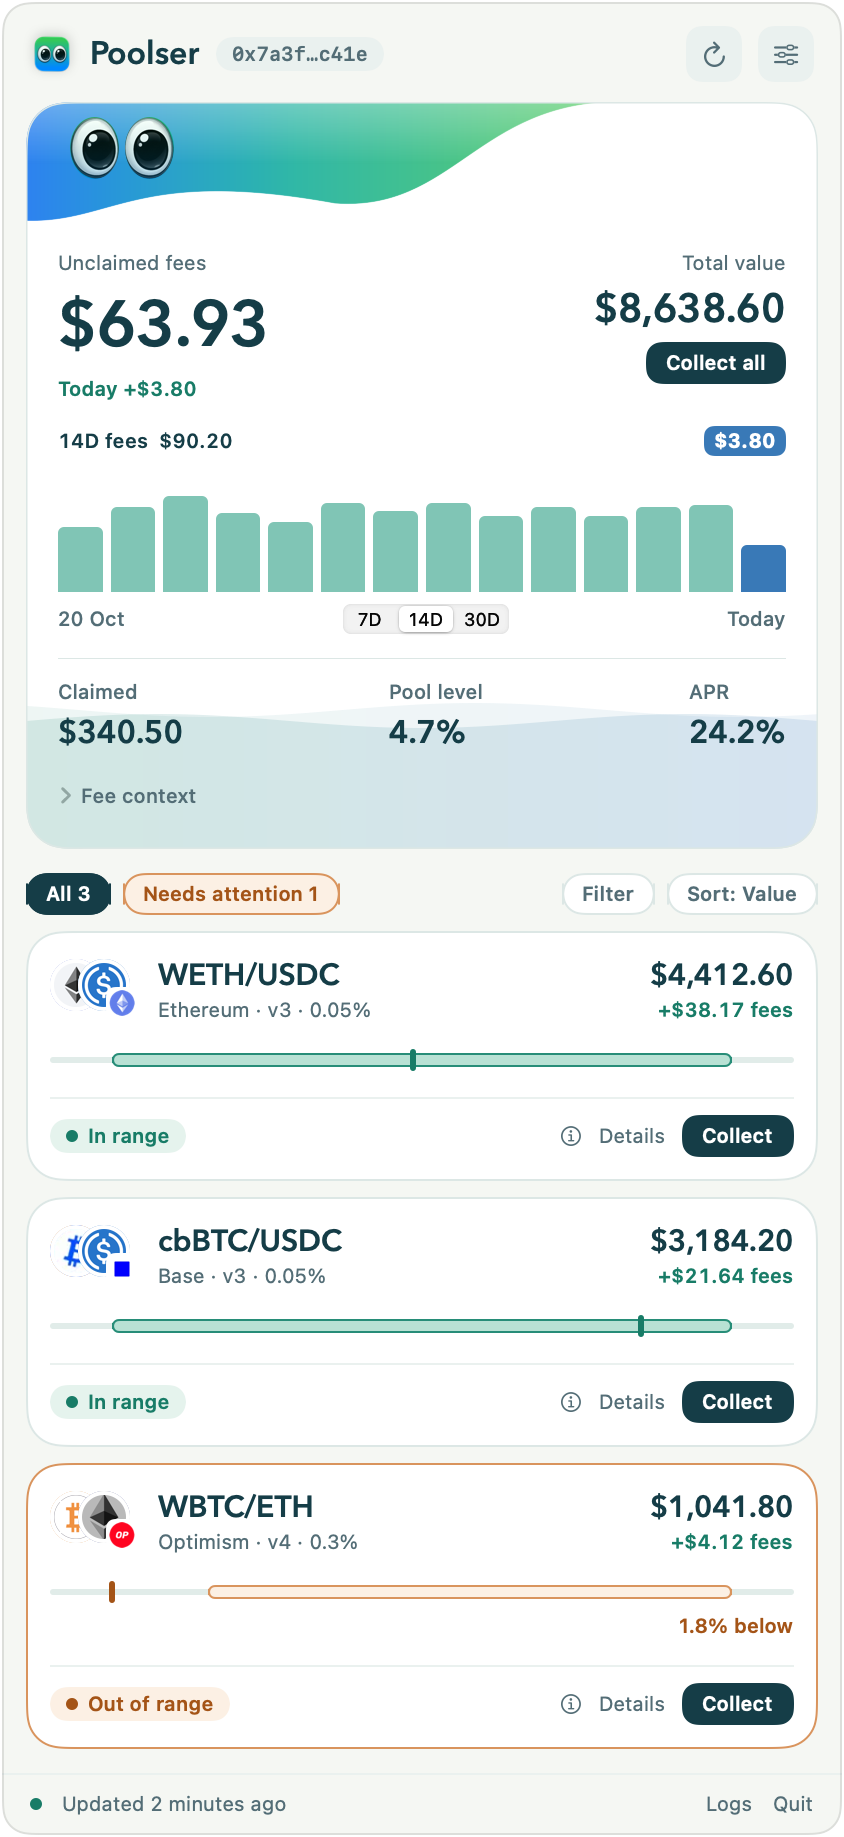
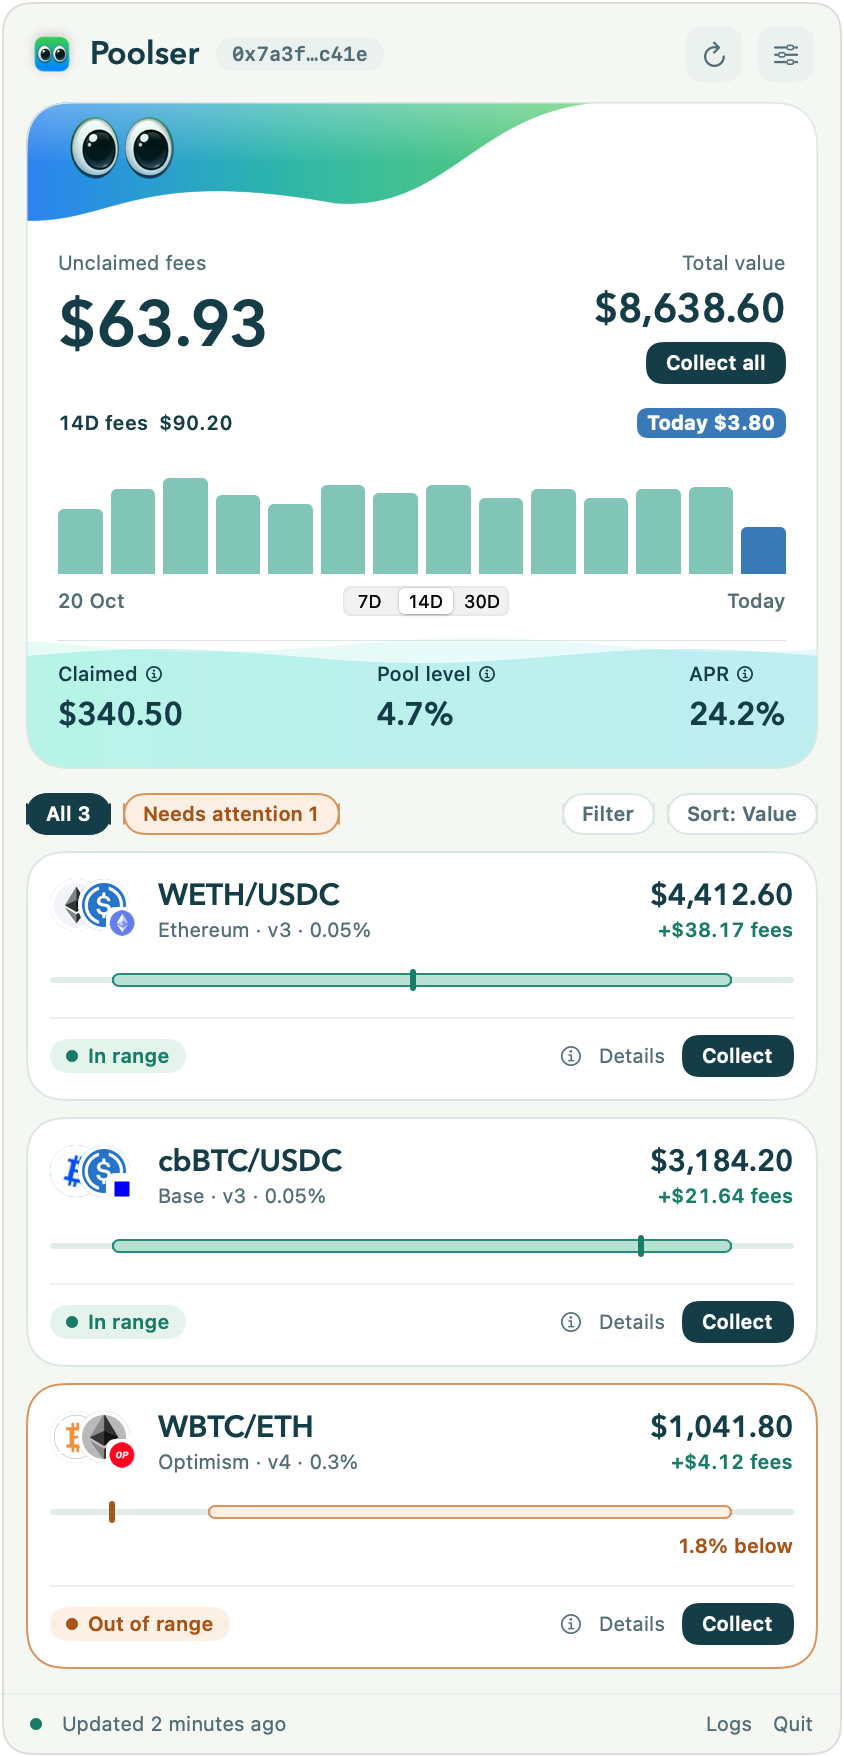
feat: add character blinking and contextual fee metrics

diff --git a/Sources/PoolserKit/Presentation/PortfolioSummaryCard.swift b/Sources/PoolserKit/Presentation/PortfolioSummaryCard.swift
@@ -64,11 +64,6 @@ public struct PortfolioSummaryCard<Actions: View>: View {
                 .font(PoolTypography.amount(32, relativeTo: .largeTitle))
                 .foregroundStyle(palette.primaryText)
                 .lineLimit(1).minimumScaleFactor(0.6)
-            if let today = dailyFees?.last {
-                Text("Today +\(formatUSD(today))")
-                    .font(.caption.weight(.semibold).monospacedDigit())
-                    .foregroundStyle(palette.fees)
-            }
         }
         .fixedSize(horizontal: true, vertical: false)
     }
@@ -90,36 +85,71 @@ public struct PortfolioSummaryCard<Actions: View>: View {
             Rectangle().fill(palette.cardLine).frame(height: 0.5)
             ViewThatFits(in: .horizontal) {
                 HStack(alignment: .top, spacing: 16) {
-                    stat("Claimed", formatUSD(summary.claimedUSD))
+                    SummaryMetric(title: "Claimed", value: formatUSD(summary.claimedUSD), explanation: claimedHelp)
                     Spacer(minLength: 0)
-                    if let level = summary.returnOnAssets { stat("Pool level", formatPercent(level)) }
+                    if let level = summary.returnOnAssets { SummaryMetric(title: "Pool level", value: formatPercent(level), explanation: poolHelp) }
                     Spacer(minLength: 0)
-                    if let apr = summary.realizedAPR { stat("APR", formatPercent(apr)) }
+                    if let apr = summary.realizedAPR { SummaryMetric(title: "APR", value: formatPercent(apr), explanation: aprHelp) }
                 }
                 VStack(alignment: .leading, spacing: 8) {
-                    stat("Claimed", formatUSD(summary.claimedUSD))
-                    if let level = summary.returnOnAssets { stat("Pool level", formatPercent(level)) }
-                    if let apr = summary.realizedAPR { stat("APR", formatPercent(apr)) }
+                    SummaryMetric(title: "Claimed", value: formatUSD(summary.claimedUSD), explanation: claimedHelp)
+                    if let level = summary.returnOnAssets { SummaryMetric(title: "Pool level", value: formatPercent(level), explanation: poolHelp) }
+                    if let apr = summary.realizedAPR { SummaryMetric(title: "APR", value: formatPercent(apr), explanation: aprHelp) }
                 }
             }
-            DisclosureGroup("Fee context") {
-                Text("All-time fees \(formatUSD(summary.allTimeUSD)). Claimed v3 fees are valued at current prices; v4 claimed fees are not tracked. Pool level is all-time fees divided by current value. APR annualizes that return since opening and is not a forecast.")
-                    .font(.caption).foregroundStyle(palette.secondaryText)
-                    .fixedSize(horizontal: false, vertical: true)
-            }
-            .font(.caption2)
-            .tint(palette.fees)
-            .foregroundStyle(palette.secondaryText)
-            .help("All-time \(formatUSD(summary.allTimeUSD)). Pool level: all-time fees / current value. APR: realized return annualized since opening.")
         }
     }
 
-    private func stat(_ label: String, _ value: String) -> some View {
-        VStack(alignment: .leading, spacing: 3) {
-            Text(label).font(.caption2).foregroundStyle(palette.secondaryText)
-            Text(value).font(PoolTypography.amount(16, relativeTo: .callout)).foregroundStyle(palette.primaryText)
+    private var claimedHelp: String {
+        "Fees already collected from v3 positions, valued at current token prices. Claimed v4 fees are not tracked."
+    }
+
+    private var poolHelp: String {
+        "All-time fees (claimed + unclaimed) ÷ current position value × 100. Only positions with known fees and value are included. The water rises with this percentage, up to a full pool. Changes in token prices or liquidity also change the level."
+    }
+
+    private var aprHelp: String {
+        "Annualized fee return since opening, weighted by each position’s current value and age.\n\nΣ all-time fees ÷ Σ (current position value × years open) × 100.\n\nOnly positions with known fees, value and an opening date at least one day ago are included. Claimed fees use current token prices. Liquidity changes affect the estimate; this is not a forecast."
+    }
+}
+
+private struct SummaryMetric: View {
+    let title: String
+    let value: String
+    let explanation: String
+    @State private var showingExplanation = false
+    @Environment(\.colorScheme) private var scheme
+
+    var body: some View {
+        let palette = GraphitePalette.current(scheme)
+        Button { showingExplanation.toggle() } label: {
+            VStack(alignment: .leading, spacing: 3) {
+                HStack(spacing: 3) {
+                    Text(title)
+                    Image(systemName: "info.circle").imageScale(.small)
+                }
+                .font(.caption2).foregroundStyle(palette.primaryText)
+                Text(value).font(PoolTypography.amount(16, relativeTo: .callout))
+                    .foregroundStyle(palette.primaryText)
+            }
+            .fixedSize(horizontal: true, vertical: false)
+            .contentShape(Rectangle())
         }
-        .fixedSize(horizontal: true, vertical: false)
-        .accessibilityElement(children: .combine)
+        .buttonStyle(.plain)
+        .accessibilityLabel("\(title), \(value)")
+        .accessibilityHint("Show explanation")
+        .help(explanation)
+        .popover(isPresented: $showingExplanation) {
+            VStack(alignment: .leading, spacing: 8) {
+                Text(title).font(PoolTypography.heading(16))
+                Text(explanation).font(.callout)
+                    .fixedSize(horizontal: false, vertical: true)
+            }
+            .padding(16)
+            .frame(idealWidth: 280, maxWidth: 320, alignment: .leading)
+            .foregroundStyle(palette.primaryText)
+            .background(palette.card)
+            .presentationCompactAdaptation(.popover)
+        }
     }
 }

diff --git a/Sources/PoolserKit/Presentation/PoolBrand.swift b/Sources/PoolserKit/Presentation/PoolBrand.swift
@@ -39,19 +39,23 @@ public struct PoolBrandRibbon: View {
                         ],
                         startPoint: .trailing, endPoint: .leading
                     ))
+                    .allowsHitTesting(false)
                 // A low highlight rounds the crest without turning the whole card glossy.
                 CrestShape(front: false)
                     .fill(LinearGradient(colors: [.white.opacity(0.3), .clear, .clear],
                                          startPoint: .top, endPoint: .bottom))
-                PoolEyes(width: eyesWidth)
+                    .allowsHitTesting(false)
+                PoolEyes(width: eyesWidth, blinks: animated)
                     .padding(.top, compact ? 5 : 7.5)
                     .padding(.leading, compact ? 16 : 22)
                     .opacity(appeared || !animated ? 1 : 0)
                     .animation(reduceMotion ? nil : .easeOut(duration: 0.2).delay(0.22), value: appeared)
                 CrestShape(front: true)
                     .fill(surface)
+                    .allowsHitTesting(false)
                 CrestEdge()
                     .stroke(surface.opacity(0.4), lineWidth: 0.6)
+                    .allowsHitTesting(false)
             }
             .frame(width: geometry.size.width, height: height)
             .scaleEffect(x: 1, y: reduceMotion || appeared || !animated ? 1 : 0.2, anchor: .topLeading)
@@ -61,7 +65,7 @@ public struct PoolBrandRibbon: View {
         .animation(.easeOut(duration: reduceMotion ? 0.15 : 0.55), value: appeared)
         .onAppear { appeared = true }
         .onDisappear { appeared = false }
-        .allowsHitTesting(false)
+        .allowsHitTesting(animated)
         .accessibilityHidden(true)
     }
 }
@@ -106,8 +110,17 @@ private struct CrestEdge: Shape {
 /// Samples the unmodified app icon; the crop and masks retain its actual pupils and reflections.
 public struct PoolEyes: View {
     private let width: CGFloat
+    private let blinks: Bool
+    @Environment(\.accessibilityReduceMotion) private var reduceMotion
+    @Environment(\.scenePhase) private var scenePhase
+    @State private var isBlinking = false
+    @State private var hoverBlink = 0
+    @State private var lastBlink = Date.distantPast
 
-    public init(width: CGFloat = 18) { self.width = width }
+    public init(width: CGFloat = 18, blinks: Bool = false) {
+        self.width = width
+        self.blinks = blinks
+    }
 
     public var body: some View {
         let scale = width / 700
@@ -127,7 +140,47 @@ public struct PoolEyes: View {
                 Ellipse()
             }
         }
+        .scaleEffect(x: 1, y: isBlinking ? 0.08 : 1)
+        .contentShape(Rectangle())
+        .onHover { inside in
+            if inside && canBlink && !isBlinking { hoverBlink += 1 }
+        }
+        .task(id: hoverBlink) {
+            if hoverBlink > 0 { await blink() }
+        }
+        .task(id: canBlink) {
+            guard canBlink else { isBlinking = false; return }
+            while !Task.isCancelled {
+                do {
+                    try await Task.sleep(for: .seconds(Double.random(in: 12...24)))
+                } catch { return }
+                await blink()
+            }
+        }
         .accessibilityHidden(true)
+    }
+
+    private var canBlink: Bool {
+        #if os(iOS)
+        blinks && !reduceMotion && scenePhase == .active
+        #else
+        blinks && !reduceMotion
+        #endif
+    }
+
+    @MainActor
+    private func blink() async {
+        guard canBlink, !isBlinking, !Task.isCancelled,
+              Date().timeIntervalSince(lastBlink) >= 1 else { return }
+        lastBlink = .now
+        withAnimation(.easeIn(duration: 0.08)) { isBlinking = true }
+        do {
+            try await Task.sleep(for: .milliseconds(100))
+        } catch {
+            isBlinking = false
+            return
+        }
+        withAnimation(.easeOut(duration: 0.12)) { isBlinking = false }
     }
 }
 

diff --git a/Sources/PoolserKit/Presentation/GraphitePositionCard.swift b/Sources/PoolserKit/Presentation/GraphitePositionCard.swift
@@ -359,7 +359,7 @@ public struct GraphitePositionCard: View {
 
 // MARK: - Fee pool
 
-/// The fee pool: water in the logo's colours filling its container from the bottom to `level`,
+/// The fee pool: turquoise water filling its container from the bottom to `level`,
 /// the share of the value already earned back in fees. Pours in and sloshes from side to side
 /// when shown or when the level changes, then settles; it stays still otherwise, so an open
 /// popover costs nothing.
@@ -369,7 +369,7 @@ public struct PoolWater: View {
     let level: Double
     var base = 0.14
     var amplitude: CGFloat = 3.5
-    /// Water colour for a pool drawn over a coloured card; nil uses the logo's gradient.
+    /// Water colour for a pool drawn over a coloured card; nil uses the turquoise fee-pool gradient.
     var color: Color? = nil
 
     public init(level: Double, base: Double = 0.14, amplitude: CGFloat = 3.5, color: Color? = nil) {
@@ -397,13 +397,13 @@ public struct PoolWater: View {
                 ZStack(alignment: .bottom) {
                     Wave(phase: restPhase + back.travel + .pi * 0.8,
                          amplitude: amplitude * back.swell, tilt: back.tilt)
-                        .fill(color.map(AnyShapeStyle.init) ?? AnyShapeStyle(palette.brand))
-                        .opacity(palette.waterBack)
+                        .fill(color.map(AnyShapeStyle.init) ?? AnyShapeStyle(palette.water))
+                        .opacity(color == nil ? palette.waterBack + 0.02 : palette.waterBack)
                         .frame(height: height > 0 ? height + amplitude * 1.6 : 0)
                     Wave(phase: restPhase + front.travel,
                          amplitude: amplitude * front.swell, tilt: front.tilt)
-                        .fill(color.map(AnyShapeStyle.init) ?? AnyShapeStyle(palette.brand))
-                        .opacity(palette.waterFront)
+                        .fill(color.map(AnyShapeStyle.init) ?? AnyShapeStyle(palette.water))
+                        .opacity(color == nil ? palette.waterFront + (colorScheme == .dark ? 0 : 0.08) : palette.waterFront)
                         .frame(height: height)
                 }
                 .frame(width: geo.size.width, height: geo.size.height, alignment: .bottom)

diff --git a/Sources/PoolserKit/Presentation/FeeHistoryChart.swift b/Sources/PoolserKit/Presentation/FeeHistoryChart.swift
@@ -119,7 +119,7 @@ public struct FeeHistoryChart: View {
         let isToday = index == shown.count - 1
         let value = formatUSD(shown.indices.contains(index) ? shown[index] : 0)
         let date = startDate(daysBack: shown.count - 1 - index).formatted(.dateTime.month(.abbreviated).day())
-        return Text(isToday ? value : "\(date) · \(value)")
+        return Text(isToday ? "Today \(value)" : "\(date) · \(value)")
             .font(.caption2.weight(.bold).monospacedDigit())
             .foregroundStyle(isToday ? palette.onBarToday : palette.primaryText)
             .padding(.horizontal, 5)

diff --git a/Sources/PoolserKit/Presentation/GraphitePalette.swift b/Sources/PoolserKit/Presentation/GraphitePalette.swift
@@ -63,6 +63,11 @@ public struct GraphitePalette {
         LinearGradient(colors: [brandStart, brandEnd], startPoint: .leading, endPoint: .trailing)
     }
 
+    public var water: LinearGradient {
+        LinearGradient(colors: [Color(hex: 0x18D6B0), Color(hex: 0x23C5CF)],
+                       startPoint: .leading, endPoint: .trailing)
+    }
+
     public static func current(_ scheme: ColorScheme) -> GraphitePalette {
         scheme == .dark ? .dark : .light
     }

diff --git a/docs/BRAND.md b/docs/BRAND.md
@@ -28,7 +28,7 @@ Use an 8-point spacing rhythm, 16–20-point continuous card corners, hairline s
 
 ## Information and interaction
 
-Always show unclaimed fees, portfolio value, today's fees when available, daily bar chart, selected period, claimed fees, pool level and realized APR when known. Do not repeat position and chain counts beneath Total value; the position list provides that context. Keep syncing and unavailable states truthful. Retain wallet navigation, filters, sorting, collect actions, errors and refresh status.
+Always show unclaimed fees, portfolio value, today's fees once in the blue chart badge labelled Today when available, daily bar chart, selected period, claimed fees, pool level and realized APR when known. Do not repeat position and chain counts beneath Total value; the position list provides that context. Keep syncing and unavailable states truthful. Retain wallet navigation, filters, sorting, collect actions, errors and refresh status.
 
 Position cards always show pair, chain/version/fee tier, value, fees, range status, range track and current marker. Out-of-range distance remains visible. Exact prices, holdings, position ID, claimed return and pool statistics are secondary details: reveal on hover or keyboard-accessible Details on macOS, and via Details on iOS. Opening Uniswap remains a separate explicit action. Do not hide error or collection status inside hover content.
 
@@ -36,7 +36,7 @@ Daily bars reveal their date and amount on hover or tap; keyboard and screen-rea
 
 ## Motion
 
-Preserve the existing fee pool pouring and settling on opening. The Soft Crest wave enters briefly and its eyes fade in slightly later. Show data immediately. No perpetual decorative animation or repeated animation during ordinary refreshes. Respect Reduce Motion: no wave travel or slosh, only a short dissolve for the brand accent. Widgets are static.
+Preserve the existing fee pool pouring and settling on opening. The Soft Crest wave enters briefly and its eyes fade in slightly later. Show data immediately. The eyes blink briefly on hover and at random 12–24-second intervals while the app view is visible. Use sleeping, cancellable tasks rather than a continuously rendering timeline. Widgets never schedule blinks; inline eye marks remain still. Ordinary refreshes do not restart the entrance animation. Respect Reduce Motion: no wave travel or slosh, only a short dissolve for the brand accent and no blinking. Widgets are static.
 
 ## Platforms
 
@@ -52,7 +52,7 @@ Shared colours live in `Sources/PoolserKit/Presentation/GraphitePalette.swift`; 
 
 ## Implementation details
 
-The native macOS hover help exposes exact prices, holdings and identifiers without moving the position rows. The Details button opens the full position view on both platforms and supports keyboard access. Fee context expands below the summary; the chart heading opens period totals and daily average on tap or click. Preserve these explicit alternatives to hover.
+The native macOS hover help exposes exact prices, holdings and identifiers without moving the position rows. The Details button opens the full position view on both platforms and supports keyboard access. Claimed, Pool level and APR each expose their own contextual tooltip on Mac and an accessible click/tap popover; there is no expanding Fee context row. The Claimed explanation describes collected v3 fees at current prices without repeating the displayed amount. Pool level explains all-time fees divided by current eligible position value. APR explains Σ all-time fees / Σ (current value × years open), annualized, excluding positions younger than one day or missing data; the chart heading opens period totals and daily average on tap or click. Preserve these explicit alternatives to hover.
 
 The all-wallets summary uses a deeper jade-to-petrol gradient for white-text contrast and retains its allocation bar and grouped positions. The mobile app keeps its existing wallet navigation; the concept's extra bottom tabs are not part of this implementation.
 
@@ -65,3 +65,5 @@ Use the original icon artwork for the character. `Sources/PoolserKit/Resources/P
 Use a satin crest with a soft rim and restrained depth. Leave a small blue-green cushion below the eyes by lowering the shared curve locally under the character; keep the eye position fixed. The crest is 62 points tall in the app and 40 in widgets, with the eyes held near the top so added depth goes below them. Avoid multiple shiny glass folds: the selected direction is Soft Crest. Widgets use a shorter crest and smaller character to keep titles and data readable. Their title sits to the right of the character, below the coloured edge, with space reserved for the eyes rather than a duplicate eye mark. The existing fee-pool filling animation remains separate and unchanged.
 
 For a focused reference export, set `POOLSER_SCREENSHOT_FILTER=redesign` with `POOLSER_SCREENSHOTS`. This captures the crest, original character, summary and widgets without waiting for external token icons. Use `popover` to capture only the Mac panels, or omit the filter for the complete screenshot set.
+
+The fee-pool water uses a separate vivid turquoise gradient (`#18D6B0` → `#23C5CF`) with slightly stronger opacity than the previous muted brand wash. Keep primary and secondary figures legible in both appearances; do not change the level calculation.
